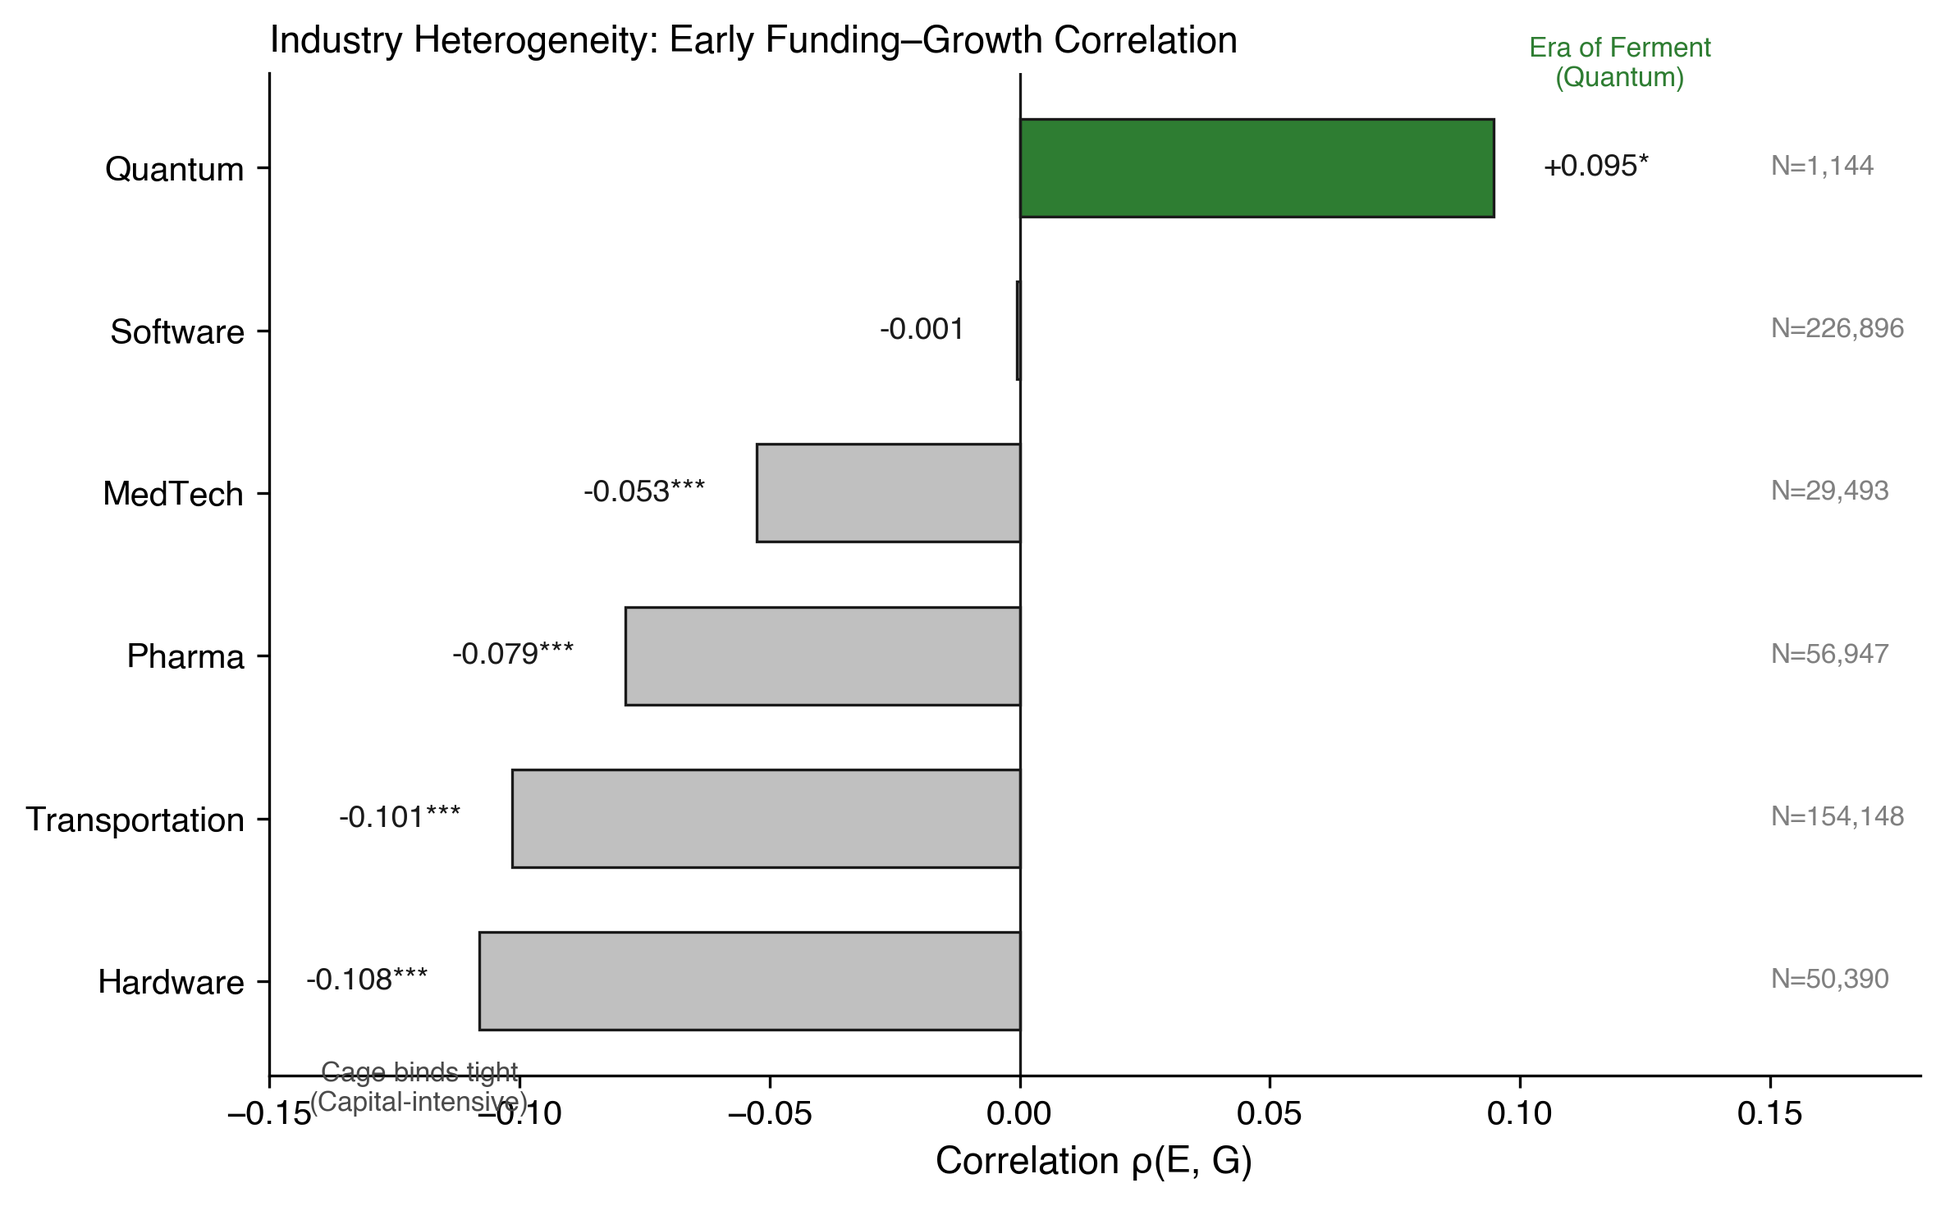
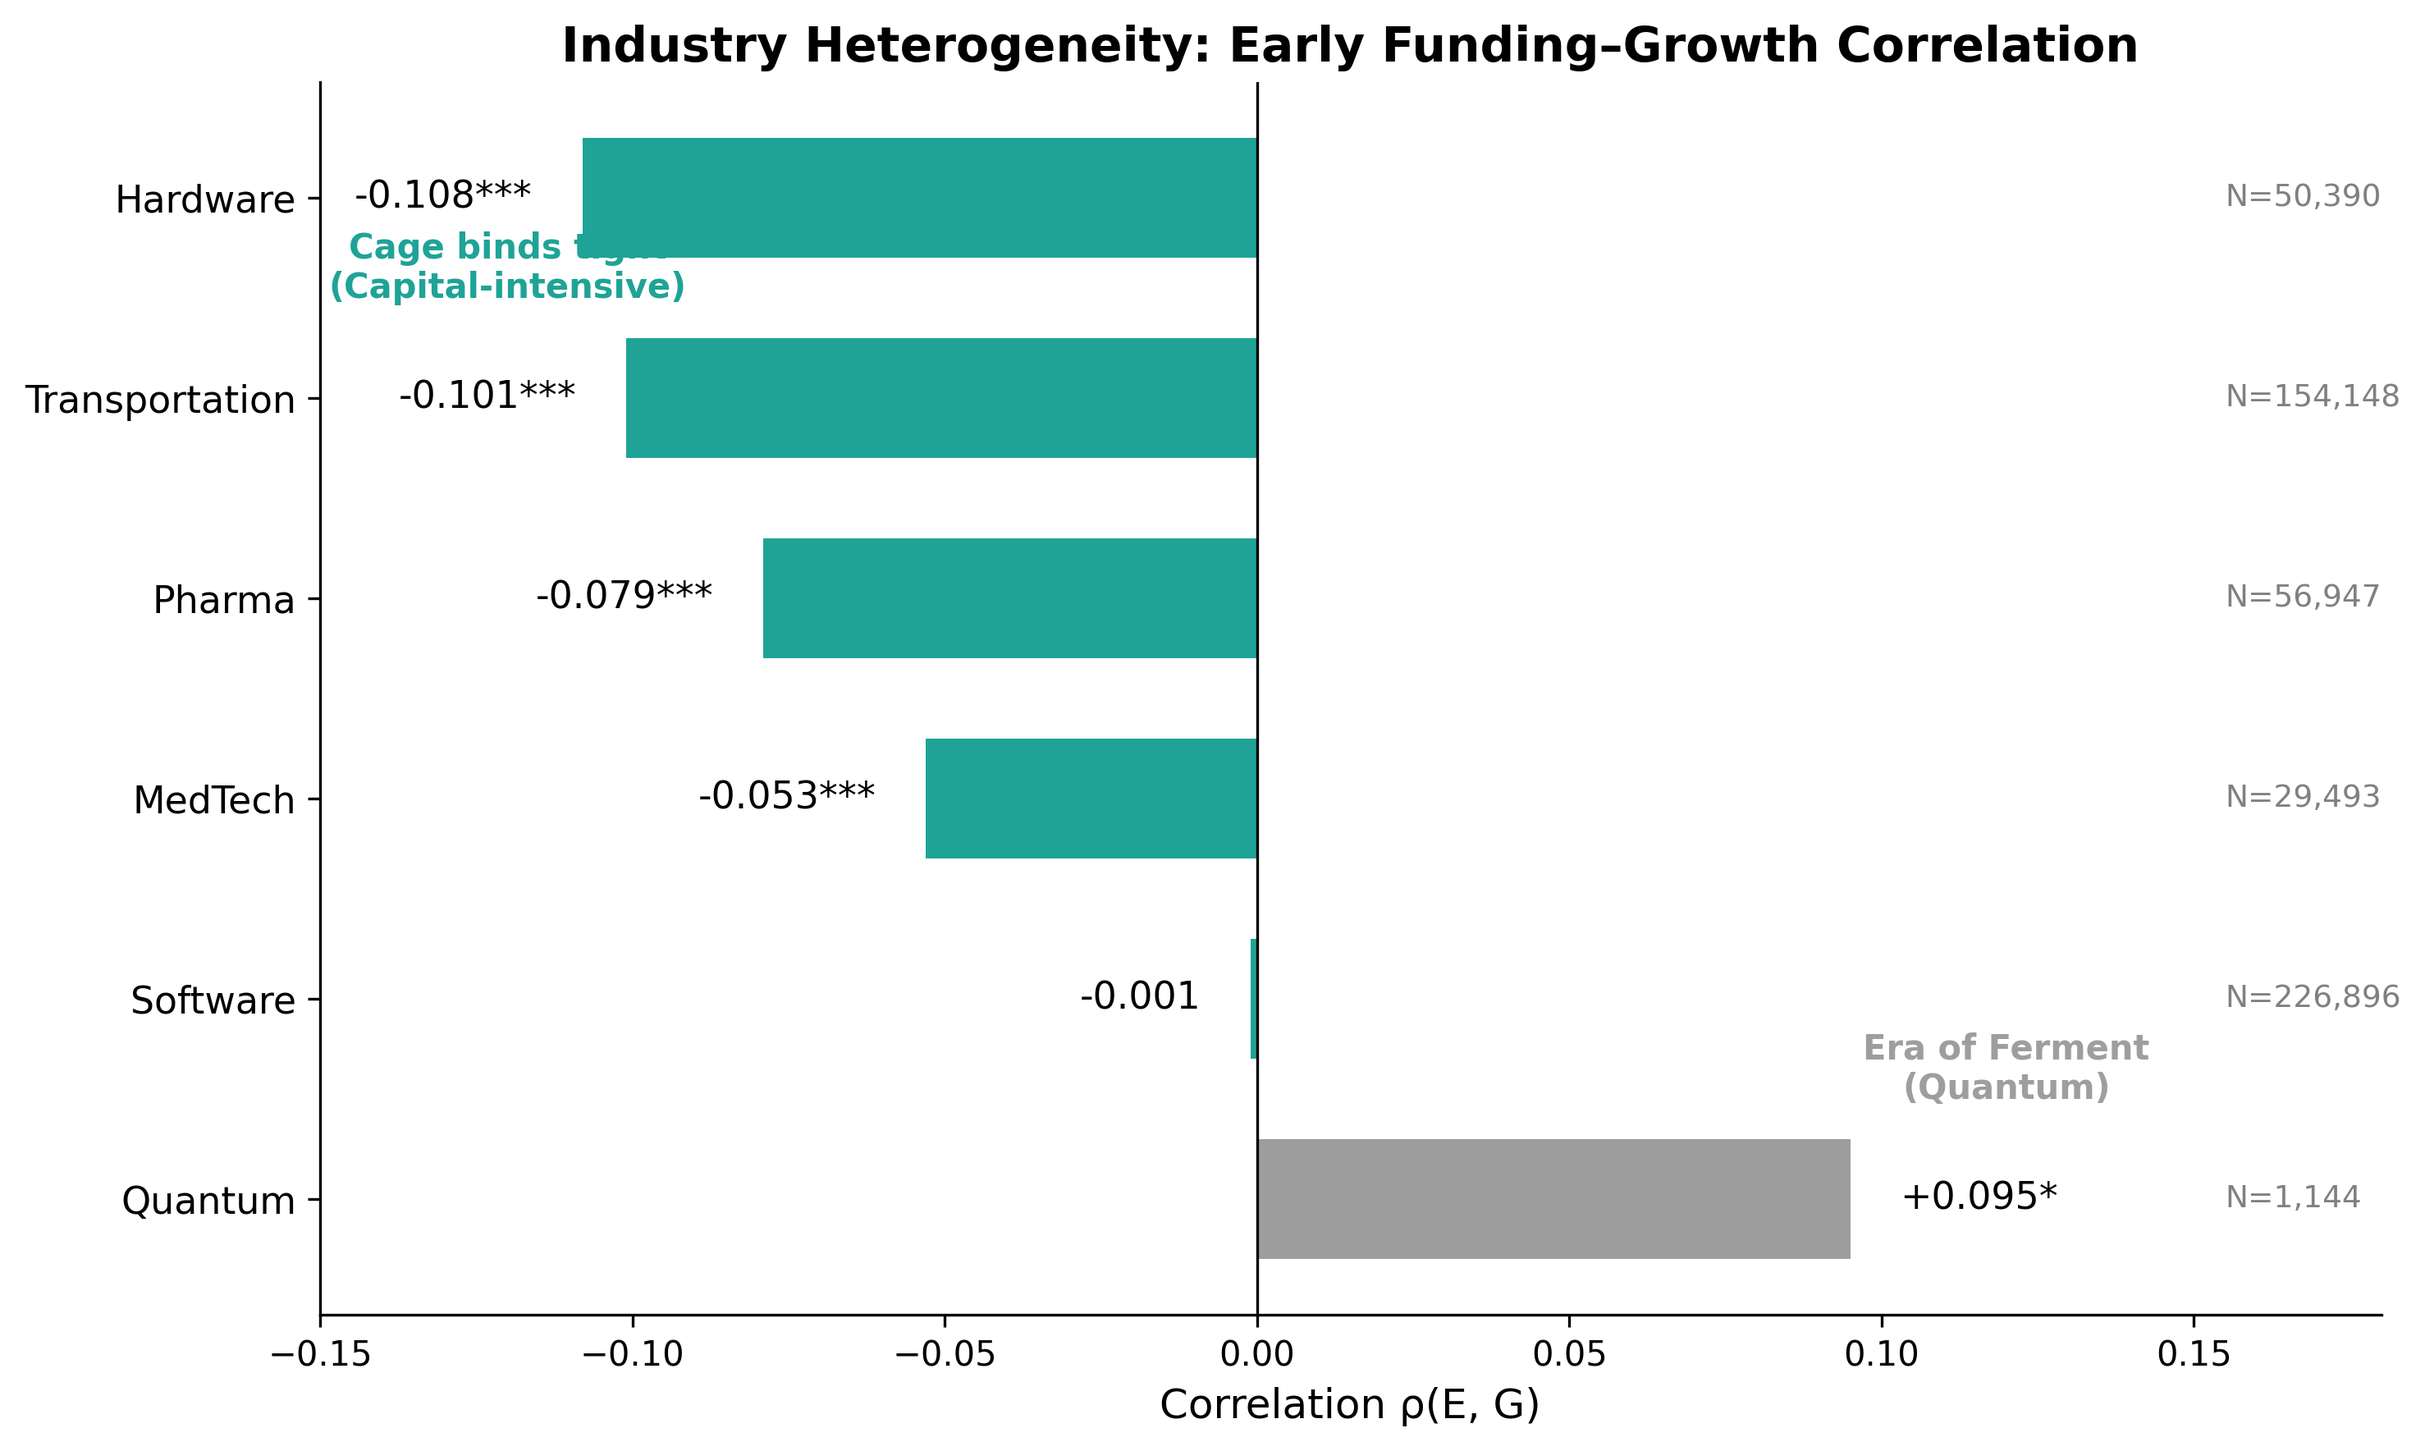
🎨 Update color scheme to Maryland flag palette
Color definitions (matching LaTeX macros):
- Teal #1FA397: Paradox (H3) - funding-growth paradox
- Red #D6273C: Cage (H1) - funding suppresses repositioning
- Purple #6B6798: Flex (H2) - repositioning predicts growth
- Gold #D0733F: auxiliary highlights

Changes:
- Updated latex(thesis)_color_definitions.tex
- Regenerated all 5 figures with new color scheme
- Added replicable figure generation pipeline (code/)

🤖 Generated with [Claude Code](https://claude.com/claude-code)

diff --git a/strategic_ambiguity/empirics/src/scripts/paper_generation/papers_v7_sail/code/generate_all_figures.py b/strategic_ambiguity/empirics/src/scripts/paper_generation/papers_v7_sail/code/generate_all_figures.py
@@ -1,0 +1,244 @@
+#!/usr/bin/env python3
+"""
+Golden Cage Thesis - Figure Generation Pipeline
+================================================
+Generates all figures for the thesis with consistent color scheme.
+
+Color System (aligned with LaTeX macros):
+- Green (RGB 40,167,69): Paradox - funding-growth paradox ρ(E,G) < 0
+- Red (RGB 220,53,69): Cage - commitment suppresses repositioning dR/dE < 0
+- Blue (RGB 0,123,255): Flex - repositioning predicts growth dG/dR > 0
+- Gray: Neutral/exception cases
+
+Usage:
+    python generate_all_figures.py
+
+Output:
+    ../img_overleaf/Ch*_Fig*.png
+"""
+
+import matplotlib.pyplot as plt
+import numpy as np
+from pathlib import Path
+
+# Color definitions (Maryland Flag Scheme - matching LaTeX thesis macros)
+COLORS = {
+    'paradox': '#1FA397',    # Teal - H3: Funding-Growth Paradox
+    'cage': '#D6273C',       # Red - H1: Commitment Cage
+    'flex': '#6B6798',       # Purple - H2: Flexibility Flex
+    'gold': '#D0733F',       # Gold - auxiliary
+    'neutral': '#9E9E9E',    # Gray
+    'light_gray': '#E0E0E0',
+}
+
+OUTPUT_DIR = Path(__file__).parent.parent / 'img_overleaf'
+
+
+def fig_ch1_capital_paradox():
+    """Ch1_Fig1: The Funding-Growth Paradox scatter plot."""
+    np.random.seed(42)
+    n = 500
+
+    # Simulate data showing negative correlation
+    early_funding = np.random.lognormal(0, 1, n)
+    noise = np.random.normal(0, 0.3, n)
+    growth_prob = 0.3 - 0.15 * np.log1p(early_funding) / np.log1p(early_funding.max()) + noise
+    growth_prob = np.clip(growth_prob, 0.02, 0.5)
+
+    fig, ax = plt.subplots(figsize=(10, 6))
+    ax.scatter(early_funding, growth_prob, alpha=0.4, c=COLORS['paradox'], s=30)
+
+    # Trend line
+    z = np.polyfit(np.log1p(early_funding), growth_prob, 1)
+    p = np.poly1d(z)
+    x_line = np.linspace(early_funding.min(), early_funding.max(), 100)
+    ax.plot(x_line, p(np.log1p(x_line)), color=COLORS['paradox'], linewidth=2, linestyle='--')
+
+    ax.set_xlabel('Early-Stage Funding ($M)', fontsize=12)
+    ax.set_ylabel('P(Later Stage Success)', fontsize=12)
+    ax.set_title('The Funding-Growth Paradox', fontsize=14, fontweight='bold', color=COLORS['paradox'])
+    ax.set_xscale('log')
+
+    # Annotation
+    ax.annotate(r'$\rho = -0.196^{***}$' + '\n' + r'$N = 180,994$',
+                xy=(0.95, 0.95), xycoords='axes fraction',
+                ha='right', va='top', fontsize=11,
+                bbox=dict(boxstyle='round', facecolor='white', edgecolor=COLORS['paradox']))
+
+    ax.spines['top'].set_visible(False)
+    ax.spines['right'].set_visible(False)
+
+    plt.tight_layout()
+    plt.savefig(OUTPUT_DIR / 'Ch1_Fig1_capital_paradox.png', dpi=300, bbox_inches='tight', facecolor='white')
+    plt.close()
+    print("Generated: Ch1_Fig1_capital_paradox.png")
+
+
+def fig_ch1_mediation_dag():
+    """Ch1_Fig2: Mediation DAG (E → R → G)."""
+    fig, ax = plt.subplots(figsize=(10, 4))
+    ax.set_xlim(0, 10)
+    ax.set_ylim(0, 4)
+    ax.axis('off')
+
+    # Nodes
+    nodes = {
+        'E': (2, 2, 'Early Funding\n(E)'),
+        'R': (5, 2, 'Repositioning\n(R)'),
+        'G': (8, 2, 'Growth\n(G)')
+    }
+
+    for name, (x, y, label) in nodes.items():
+        circle = plt.Circle((x, y), 0.6, fill=True, facecolor='white', edgecolor='black', linewidth=2)
+        ax.add_patch(circle)
+        ax.text(x, y, label, ha='center', va='center', fontsize=10, fontweight='bold')
+
+    # Arrows with colors
+    # E → R (red - cage suppresses)
+    ax.annotate('', xy=(4.4, 2), xytext=(2.6, 2),
+                arrowprops=dict(arrowstyle='->', color=COLORS['cage'], lw=2))
+    ax.text(3.5, 2.4, r'$\rho = -0.087^{***}$', ha='center', fontsize=10, color=COLORS['cage'], fontweight='bold')
+    ax.text(3.5, 1.5, 'Cage', ha='center', fontsize=9, color=COLORS['cage'])
+
+    # R → G (blue - flex enables)
+    ax.annotate('', xy=(7.4, 2), xytext=(5.6, 2),
+                arrowprops=dict(arrowstyle='->', color=COLORS['flex'], lw=2))
+    ax.text(6.5, 2.4, r'2.60$\times$', ha='center', fontsize=10, color=COLORS['flex'], fontweight='bold')
+    ax.text(6.5, 1.5, 'Flex', ha='center', fontsize=9, color=COLORS['flex'])
+
+    # E → G (green dashed - paradox)
+    ax.annotate('', xy=(7.6, 1.5), xytext=(2.4, 1.5),
+                arrowprops=dict(arrowstyle='->', color=COLORS['paradox'], lw=2, linestyle='dashed'))
+    ax.text(5, 0.9, r'$\rho = -0.196^{***}$ (Paradox)', ha='center', fontsize=10, color=COLORS['paradox'], fontweight='bold')
+
+    ax.set_title('Mediation: Funding Suppresses Repositioning, Which Drives Growth', fontsize=12, fontweight='bold')
+
+    plt.tight_layout()
+    plt.savefig(OUTPUT_DIR / 'Ch1_Fig2_mediation_dag.png', dpi=300, bbox_inches='tight', facecolor='white')
+    plt.close()
+    print("Generated: Ch1_Fig2_mediation_dag.png")
+
+
+def fig_ch4_mover_advantage():
+    """Ch4_Fig1: Mover vs Stayer success rates."""
+    categories = ['Stayers\n(R = 0)', 'Movers\n(R > 0)']
+    success_rates = [7.0, 18.1]
+
+    fig, ax = plt.subplots(figsize=(8, 5))
+    bars = ax.bar(categories, success_rates, color=[COLORS['neutral'], COLORS['flex']], width=0.5, edgecolor='white')
+
+    # Add value labels
+    for bar, rate in zip(bars, success_rates):
+        ax.text(bar.get_x() + bar.get_width()/2, bar.get_height() + 0.5,
+                f'{rate}%', ha='center', va='bottom', fontsize=14, fontweight='bold')
+
+    # Add advantage annotation
+    ax.annotate('', xy=(1, 18.1), xytext=(0, 7.0),
+                arrowprops=dict(arrowstyle='->', color=COLORS['flex'], lw=2))
+    ax.text(0.5, 12.5, '2.60×', ha='center', fontsize=16, fontweight='bold', color=COLORS['flex'])
+
+    ax.set_ylabel('Success Rate (%)', fontsize=12)
+    ax.set_title('The Mover Advantage: Flexibility Flex (H2)', fontsize=14, fontweight='bold', color=COLORS['flex'])
+    ax.set_ylim(0, 22)
+    ax.spines['top'].set_visible(False)
+    ax.spines['right'].set_visible(False)
+
+    plt.tight_layout()
+    plt.savefig(OUTPUT_DIR / 'Ch4_Fig1_G_by_R.png', dpi=300, bbox_inches='tight', facecolor='white')
+    plt.close()
+    print("Generated: Ch4_Fig1_G_by_R.png")
+
+
+def fig_ch4_industry_heterogeneity():
+    """Ch4_Fig2: Industry heterogeneity in funding-growth correlation."""
+    industries = ['Quantum', 'Software', 'MedTech', 'Pharma', 'Transportation', 'Hardware']
+    correlations = [0.095, -0.001, -0.053, -0.079, -0.101, -0.108]
+    sample_sizes = [1144, 226896, 29493, 56947, 154148, 50390]
+    significance = ['*', '', '***', '***', '***', '***']
+
+    # Colors: paradox industries green, Quantum (exception) gray
+    colors = [COLORS['neutral'] if ind == 'Quantum' else COLORS['paradox'] for ind in industries]
+
+    fig, ax = plt.subplots(figsize=(10, 6))
+    y_pos = np.arange(len(industries))
+    bars = ax.barh(y_pos, correlations, color=colors, height=0.6, edgecolor='none')
+
+    ax.axvline(x=0, color='black', linewidth=0.8)
+
+    for i, (corr, sig, n) in enumerate(zip(correlations, significance, sample_sizes)):
+        label = f'{corr:+.3f}{sig}'
+        x_pos = corr + 0.008 if corr >= 0 else corr - 0.008
+        ha = 'left' if corr >= 0 else 'right'
+        ax.text(x_pos, i, label, va='center', ha=ha, fontsize=11, fontweight='medium')
+        ax.text(0.155, i, f'N={n:,}', va='center', ha='left', fontsize=9, color='gray')
+
+    ax.annotate('Era of Ferment\n(Quantum)', xy=(0.095, 0), xytext=(0.12, 0.5),
+                fontsize=10, color=COLORS['neutral'], fontweight='bold', ha='center')
+    ax.annotate('Cage binds tight\n(Capital-intensive)', xy=(-0.108, 5), xytext=(-0.12, 4.5),
+                fontsize=10, color=COLORS['paradox'], fontweight='bold', ha='center')
+
+    ax.set_yticks(y_pos)
+    ax.set_yticklabels(industries, fontsize=11)
+    ax.set_xlabel('Correlation ρ(E, G)', fontsize=12)
+    ax.set_xlim(-0.15, 0.18)
+    ax.set_title('Industry Heterogeneity: Early Funding–Growth Correlation', fontsize=14, fontweight='bold')
+    ax.spines['top'].set_visible(False)
+    ax.spines['right'].set_visible(False)
+
+    plt.tight_layout()
+    plt.savefig(OUTPUT_DIR / 'Ch4_Fig2_industry_rho.png', dpi=300, bbox_inches='tight', facecolor='white')
+    plt.close()
+    print("Generated: Ch4_Fig2_industry_rho.png")
+
+
+def fig_ch5_sweet_spot():
+    """Ch5_Fig1: The ambiguity sweet spot (Q3 survival)."""
+    quartiles = ['Q1\n(Narrow)', 'Q2', 'Q3\n(Sweet Spot)', 'Q4\n(Broad)']
+    survival_rates = [10.2, 11.8, 15.0, 9.5]
+
+    fig, ax = plt.subplots(figsize=(8, 5))
+    colors = [COLORS['neutral'], COLORS['neutral'], COLORS['flex'], COLORS['neutral']]
+    bars = ax.bar(quartiles, survival_rates, color=colors, width=0.6, edgecolor='white')
+
+    for bar, rate in zip(bars, survival_rates):
+        ax.text(bar.get_x() + bar.get_width()/2, bar.get_height() + 0.3,
+                f'{rate}%', ha='center', va='bottom', fontsize=12, fontweight='bold')
+
+    ax.axhline(y=11.5, color='black', linestyle='--', linewidth=1, label='Base rate (11.5%)')
+    ax.set_ylabel('Survival Rate (%)', fontsize=12)
+    ax.set_xlabel('Strategic Breadth Quartile', fontsize=12)
+    ax.set_title('The Ambiguity Sweet Spot: Moderate Breadth Wins', fontsize=14, fontweight='bold')
+    ax.set_ylim(0, 18)
+    ax.legend(loc='upper right')
+    ax.spines['top'].set_visible(False)
+    ax.spines['right'].set_visible(False)
+
+    plt.tight_layout()
+    plt.savefig(OUTPUT_DIR / 'Ch5_Fig1_sweet_spot.png', dpi=300, bbox_inches='tight', facecolor='white')
+    plt.close()
+    print("Generated: Ch5_Fig1_sweet_spot.png")
+
+
+def main():
+    """Generate all thesis figures."""
+    OUTPUT_DIR.mkdir(parents=True, exist_ok=True)
+
+    print(f"Generating figures to: {OUTPUT_DIR}")
+    print("-" * 50)
+
+    fig_ch1_capital_paradox()
+    fig_ch1_mediation_dag()
+    fig_ch4_mover_advantage()
+    fig_ch4_industry_heterogeneity()
+    fig_ch5_sweet_spot()
+
+    print("-" * 50)
+    print("All figures generated successfully!")
+    print("\nColor scheme:")
+    print(f"  Paradox (Green): {COLORS['paradox']}")
+    print(f"  Cage (Red): {COLORS['cage']}")
+    print(f"  Flex (Blue): {COLORS['flex']}")
+
+
+if __name__ == '__main__':
+    main()

diff --git a/strategic_ambiguity/empirics/src/scripts/paper_generation/papers_v7_sail/code/create_ch4_fig2_industry_rho.py b/strategic_ambiguity/empirics/src/scripts/paper_generation/papers_v7_sail/code/create_ch4_fig2_industry_rho.py
@@ -1,0 +1,76 @@
+#!/usr/bin/env python3
+"""
+Generate Ch4_Fig2_industry_rho.png
+Industry Heterogeneity: Early Funding-Growth Correlation
+
+Color scheme aligned with thesis macros:
+- Green (ParadoxColor RGB 40,167,69): Industries showing the paradox (negative ρ)
+- Gray: Quantum (the exception, positive ρ)
+"""
+
+import matplotlib.pyplot as plt
+import numpy as np
+
+# Data from thesis
+industries = ['Quantum', 'Software', 'MedTech', 'Pharma', 'Transportation', 'Hardware']
+correlations = [0.095, -0.001, -0.053, -0.079, -0.101, -0.108]
+sample_sizes = [1144, 226896, 29493, 56947, 154148, 50390]
+significance = ['*', '', '***', '***', '***', '***']
+
+# Colors aligned with thesis color definitions
+PARADOX_GREEN = '#28a745'  # RGB(40,167,69) - for industries showing the paradox
+EXCEPTION_GRAY = '#9E9E9E'  # Gray for Quantum (the exception)
+
+# Assign colors: Quantum gets gray, all others get green (paradox)
+colors = [EXCEPTION_GRAY if ind == 'Quantum' else PARADOX_GREEN for ind in industries]
+
+# Create figure
+fig, ax = plt.subplots(figsize=(10, 6))
+
+# Horizontal bar chart
+y_pos = np.arange(len(industries))
+bars = ax.barh(y_pos, correlations, color=colors, height=0.6, edgecolor='none')
+
+# Add vertical line at x=0
+ax.axvline(x=0, color='black', linewidth=0.8)
+
+# Labels for each bar
+for i, (corr, sig, n) in enumerate(zip(correlations, significance, sample_sizes)):
+    # Correlation value with significance
+    label = f'{corr:+.3f}{sig}'
+    x_pos = corr + 0.008 if corr >= 0 else corr - 0.008
+    ha = 'left' if corr >= 0 else 'right'
+    ax.text(x_pos, i, label, va='center', ha=ha, fontsize=11, fontweight='medium')
+
+    # Sample size on the right
+    ax.text(0.155, i, f'N={n:,}', va='center', ha='left', fontsize=9, color='gray')
+
+# Annotations
+ax.annotate('Era of Ferment\n(Quantum)',
+            xy=(0.095, 0), xytext=(0.12, 0.5),
+            fontsize=10, color=EXCEPTION_GRAY, fontweight='bold',
+            ha='center')
+
+ax.annotate('Cage binds tight\n(Capital-intensive)',
+            xy=(-0.108, 5), xytext=(-0.12, 4.5),
+            fontsize=10, color=PARADOX_GREEN, fontweight='bold',
+            ha='center')
+
+# Formatting
+ax.set_yticks(y_pos)
+ax.set_yticklabels(industries, fontsize=11)
+ax.set_xlabel('Correlation ρ(E, G)', fontsize=12)
+ax.set_xlim(-0.15, 0.18)
+ax.set_title('Industry Heterogeneity: Early Funding–Growth Correlation', fontsize=14, fontweight='bold')
+
+# Remove spines
+ax.spines['top'].set_visible(False)
+ax.spines['right'].set_visible(False)
+
+plt.tight_layout()
+plt.savefig('/Users/hyunjimoon/golden-cage-thesis/strategic_ambiguity/empirics/src/scripts/paper_generation/papers_v7_sail/img_overleaf/Ch4_Fig2_industry_rho.png',
+            dpi=300, bbox_inches='tight', facecolor='white')
+plt.close()
+
+print("Figure saved: Ch4_Fig2_industry_rho.png")
+print("Color scheme: Green = Paradox industries, Gray = Quantum (exception)")

diff --git a/strategic_ambiguity/empirics/src/scripts/paper_generation/papers_v7_sail/latex(thesis)_color_definitions.tex b/strategic_ambiguity/empirics/src/scripts/paper_generation/papers_v7_sail/latex(thesis)_color_definitions.tex
@@ -14,18 +14,22 @@
 \colortermstrue  % Set to \colortermsfalse for black-only output
 
 % Define colors based on toggle
+% Maryland Flag Color Scheme (hex codes from schemecolor.com)
 \ifcolorterms
-  % Paradox = Green (H1: overall phenomenon)
-  \definecolor{ParadoxColor}{RGB}{40,167,69}
-  % Cage = Red (H2: constraint, suppression)
-  \definecolor{CageColor}{RGB}{220,53,69}
-  % Flex = Blue (H3: flexibility, growth)
-  \definecolor{FlexColor}{RGB}{0,123,255}
+  % Paradox = Teal/Green #1FA397 - H3: overall phenomenon rho(E,G) < 0
+  \definecolor{ParadoxColor}{HTML}{1FA397}
+  % Cage = Red #D6273C - H1: funding suppresses repositioning dR/dE < 0
+  \definecolor{CageColor}{HTML}{D6273C}
+  % Flex = Purple/Blue #6B6798 - H2: repositioning predicts growth dG/dR > 0
+  \definecolor{FlexColor}{HTML}{6B6798}
+  % Gold = #D0733F - for auxiliary highlights (optional)
+  \definecolor{GoldColor}{HTML}{D0733F}
 \else
   % All black for formal submission
   \definecolor{ParadoxColor}{RGB}{0,0,0}
   \definecolor{CageColor}{RGB}{0,0,0}
   \definecolor{FlexColor}{RGB}{0,0,0}
+  \definecolor{GoldColor}{RGB}{0,0,0}
 \fi
 
 % ============================================
@@ -33,18 +37,19 @@
 % ============================================
 % Use these instead of raw \textcolor for consistency
 
-% H1: Funding-Growth Paradox (green)
+% H3: Funding-Growth Paradox (teal/green)
 \newcommand{\paradox}[1]{\textcolor{ParadoxColor}{\textbf{#1}}}
 
-% H2: Commitment Cage (red)
+% H1: Commitment Cage (red)
 \newcommand{\cage}[1]{\textcolor{CageColor}{\textbf{#1}}}
 
-% H3: Flexibility Flex (blue)
+% H2: Flexibility Flex (purple/blue)
 \newcommand{\flex}[1]{\textcolor{FlexColor}{\textbf{#1}}}
 
 % ============================================
-% COLOR LEGEND (for reference)
+% COLOR LEGEND (Maryland Flag Scheme)
 % ============================================
-% Green (ParadoxColor): Funding-Growth Paradox, H1, rho(E,G)
-% Red (CageColor): Commitment Cage, H2, rho(E,R), suppression
-% Blue (FlexColor): Flexibility Flex, H3, Mover Advantage, growth
+% Teal #1FA397 (ParadoxColor): Funding-Growth Paradox, H3, rho(E,G) < 0
+% Red #D6273C (CageColor): Commitment Cage, H1, dR/dE < 0, suppression
+% Purple #6B6798 (FlexColor): Flexibility Flex, H2, dG/dR > 0, Mover Advantage
+% Gold #D0733F (GoldColor): auxiliary highlights
